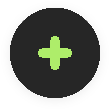
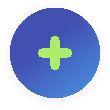
Fix few more images and colors

diff --git a/src/styles/palette.tsx b/src/styles/palette.tsx
@@ -19,7 +19,7 @@ export const palette = {
   background: '#fff',
   backgroundDarker: '#fff',
   headerColor: '#4250b2',
-  border: 'rgb(204, 204, 204)',
+  border: '#4db9fe',
   error: 'rgb(244, 94, 89)',
   shadow: 'rgba(0, 0, 0, 0.12)',
   shadowLight: 'rgba(0, 0, 0, 0.08)',

diff --git a/src/screens/ImportWalletScreen.tsx b/src/screens/ImportWalletScreen.tsx
@@ -279,7 +279,7 @@ const styles = StyleSheet.create({
   textArea: {
     marginTop: 24,
     height: 250,
-    backgroundColor: '#ffddbb'
+    backgroundColor: palette.gradientPrimarySecond
   },
   scanQRCodeButtonContainer: {
     marginTop: 12,
